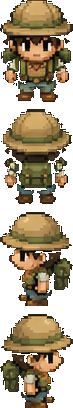
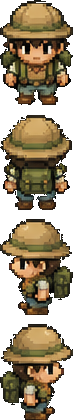
Preserve player hair — lower knockout tolerance to 8
The flood-fill background knockout (tol 16) was eating the player's dark
hair near the near-black sheet bg. Re-slice with tol 8 so the hair
survives. Bump ART_V to 11.

https://claude.ai/code/session_01F9cFHYjHomS4jXu2F4ajBs

diff --git a/index.html b/index.html
@@ -5,7 +5,7 @@
   <meta name="viewport" content="width=device-width, initial-scale=1.0, maximum-scale=1.0, user-scalable=no">
   <title>Lukeymon</title>
   <link href="https://fonts.googleapis.com/css2?family=Press+Start+2P&display=swap" rel="stylesheet">
-  <link rel="stylesheet" href="style.css?v=3.2.2">
+  <link rel="stylesheet" href="style.css?v=3.2.3">
 </head>
 <body>
 
@@ -422,12 +422,12 @@
   </div><!-- /device -->
   <div id="version-bar">
     <button id="hard-refresh" title="Hard refresh — force reload the latest version">⟳</button>
-    <span id="version">v3.2.2</span>
+    <span id="version">v3.2.3</span>
   </div>
 
-  <script src="world.js?v=3.2.2"></script>
-  <script src="data.js?v=3.2.2"></script>
-  <script src="game.js?v=3.2.2"></script>
-  <script src="net.js?v=3.2.2"></script>
+  <script src="world.js?v=3.2.3"></script>
+  <script src="data.js?v=3.2.3"></script>
+  <script src="game.js?v=3.2.3"></script>
+  <script src="net.js?v=3.2.3"></script>
 </body>
 </html>

diff --git a/game.js b/game.js
@@ -850,7 +850,7 @@ function buildTileCache() {
 }
 
 // ── Sliced biome art (per-zone tiles, trees, shop building) ──────────
-const ART_V = '10';   // bump to bust the image cache when art files change
+const ART_V = '11';   // bump to bust the image cache when art files change
 const TILE_ART = {
   0: { 0: 3, 1: 3, 3: 3 }, 1: { 1: 3, 3: 3, 4: 3 }, 2: { 1: 3, 5: 3 },
   3: { 0: 3, 1: 3, 3: 3 }, 4: { 0: 3, 1: 3, 7: 3 }, 5: { 0: 3, 1: 3, 11: 1 },
